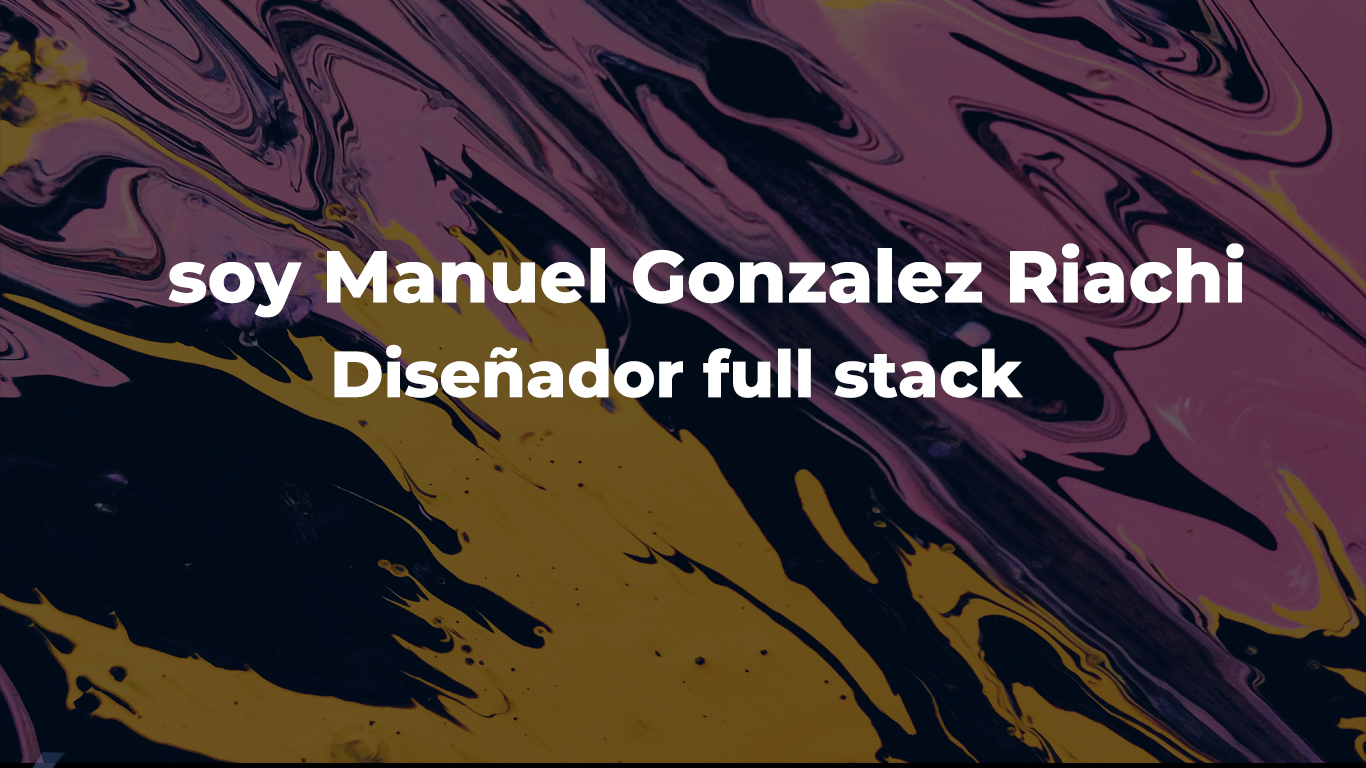
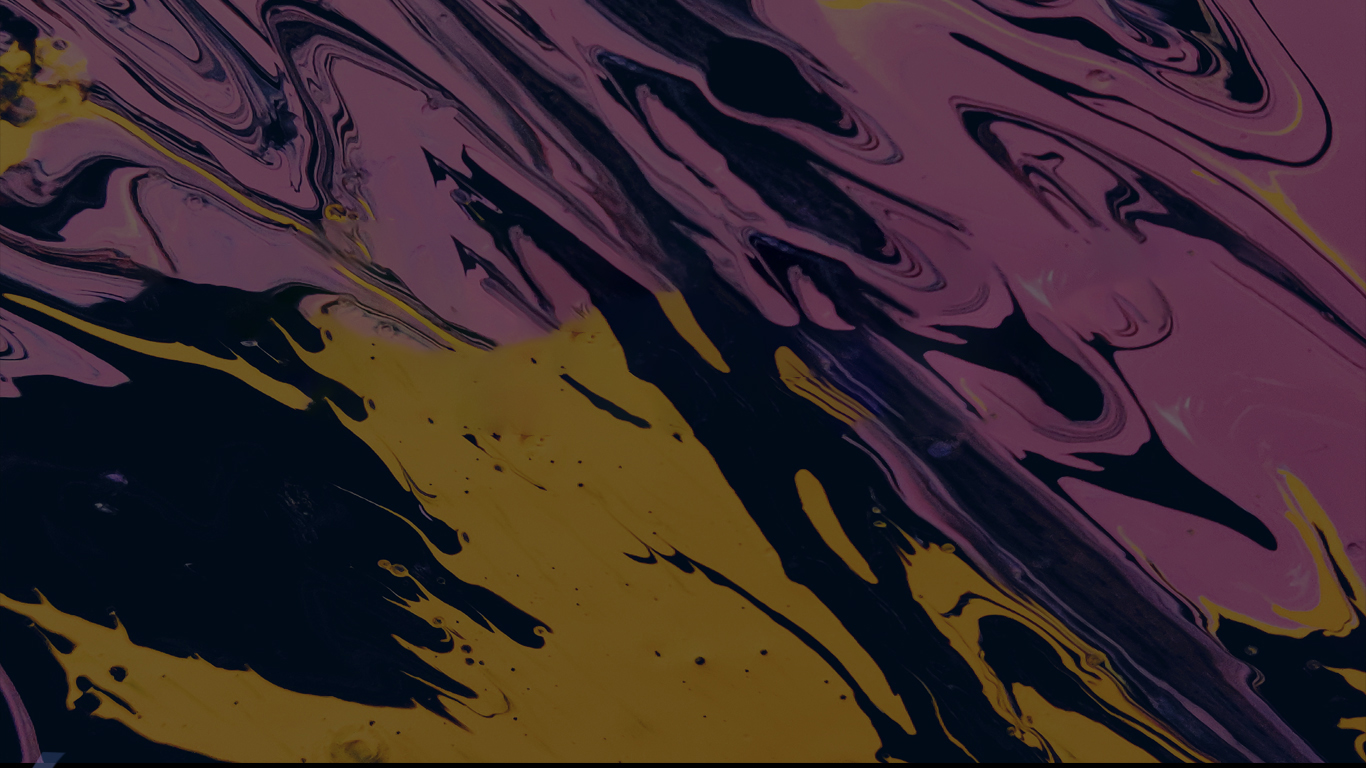
actualizacion 2

Changed region(s): [[0.0922, 0.2812, 0.9224, 0.5625]]

diff --git a/css/Estilos.css b/css/Estilos.css
@@ -17,12 +17,24 @@ body {
 
 }
 
-.BotonConoceme{
-   
-    position: absolute;
-    top: 500px;
-    left: 650px;
+.bienvenida h1{
+    color: #f3f3f3;
+    display: flex;
+    justify-content: center;
+    text-align: center;
+    padding-top: 350px;
+}
 
+.BotonConoceme{
+    padding: 10px ;
+    border-radius: 10px;
+    margin-top: 26px;
+    margin-left: 650px;
+    color: #3f3f3f;
+}
+.BotonConoceme a{
+    text-decoration: none;
+    color: #3f3f3f;
 }
 
 
@@ -207,6 +219,20 @@ footer p{
     color:#f3f3f3;
 }
 
+/*=========================animaciones================================*/
+
+.FotoProyecto:hover{
+    transform: scale(120%);
+}
+
+.BotonConoceme:hover{
+    background-color: palevioletred;
+    transform: scale(120%);
+}
+.BotonConoceme a:hover{
+    text-decoration: none;
+    color: #ffffff;
+}
 /*=========================MEDIA QUERIES PANTALLA ANCHA================================*/
 
 @media (max-width:1200px){
@@ -274,13 +300,27 @@ footer p{
         justify-content: center !important;
         text-align: center;
     }
+
+    .bienvenida h1{
+        color: #f3f3f3;
+        display: flex;
+        justify-content: center;
+        text-align: center;
+        padding-top: 230px;
+    }
+    
+    .BotonConoceme{
+        padding: 10px ;
+        border-radius: 10px;
+        margin-top: 26px;
+        margin-left: 90px;
+        color: #3f3f3f;
+    }
+    .BotonConoceme a{
+        text-decoration: none;
+        color: #3f3f3f;
+    }
+    
 }
 
-@media (min-width: 1px) {
-   .Proyectos{
-    display: flex;
-    text-decoration: none;
-    list-style: none;
-    flex-direction: column;
-   }
-}
+

diff --git a/index.html b/index.html
@@ -17,7 +17,12 @@
 
 <!-- Bienvenida --> 
 
-<section class="bienvenida"> 
+<section class="bienvenida container-fluid"> 
+  <h1>
+    soy Manuel Gonzalez Riachi
+    <br>
+    diseñador full stack
+  </h1>
     <button class="BotonConoceme"><a href="./html/Conoceme.html">Conoceme!</a></button>
 </section>
 
